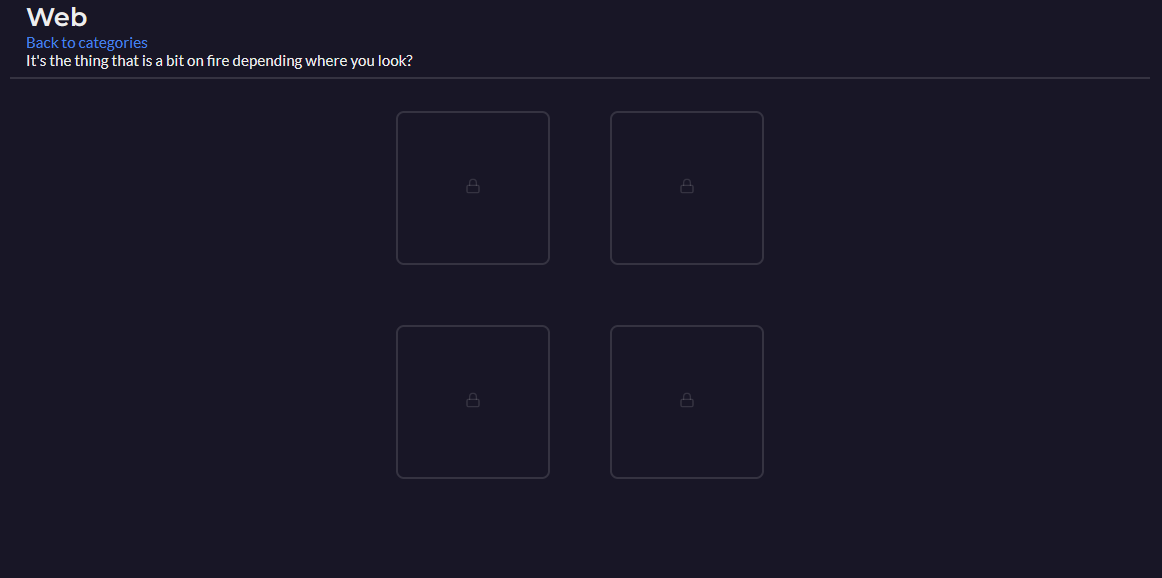
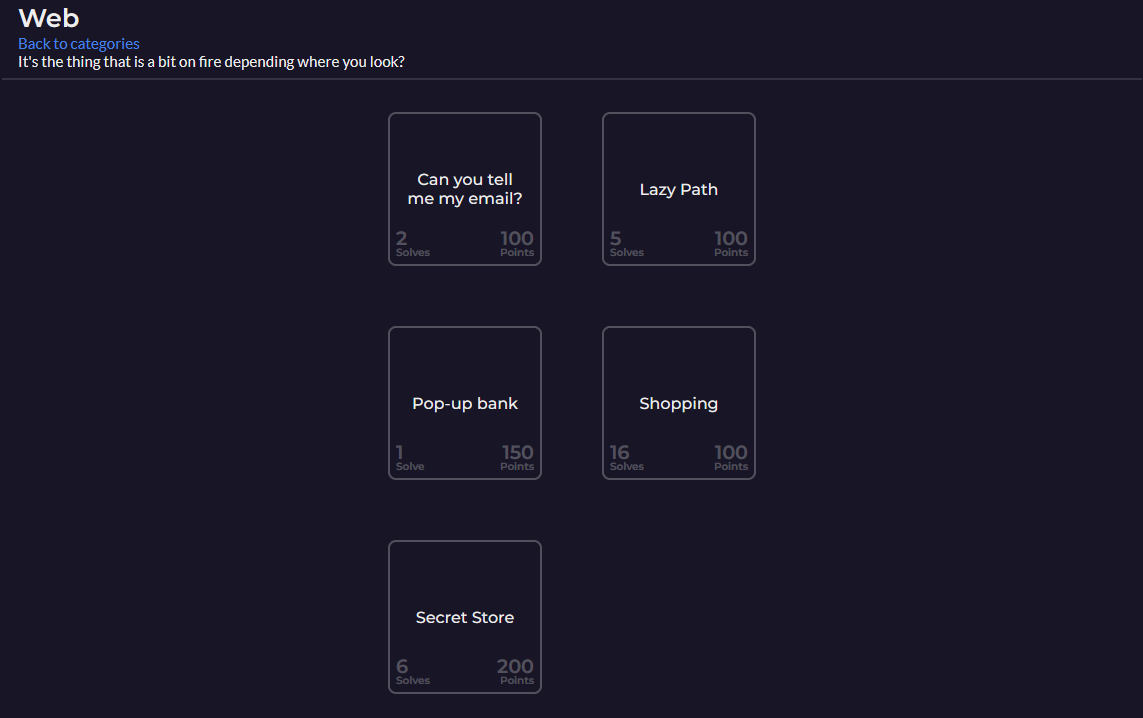
.

diff --git a/Web/README.md b/Web/README.md
@@ -1,3 +1,52 @@
 # Web
 
+- [Web](#web)
+  - [Can you tell me my email?](#can-you-tell-me-my-email)
+  - [Lazy Path](#lazy-path)
+  - [Pop-up bank](#pop-up-bank)
+  - [Shopping](#shopping)
+  - [Secret Store](#secret-store)
+
 ![Alt text](images/image_001.png)
+
+---
+
+## Can you tell me my email?
+
+![Challenge](images/image_002.png)
+
+[Can you tell me my email? Resolution](Email/README.md)
+
+---
+
+## Lazy Path
+
+![Challenge](images/image_003.png)
+
+[Lazy Path Resolution](Path/README.md)
+
+---
+
+## Pop-up bank
+
+![Challenge](images/image_004.png)
+
+[Pop-up bank Resolution](Pop_up/README.md)
+
+---
+
+## Shopping
+
+![Challenge](images/image_005.png)
+
+[Shopping Resolution](Shopping/README.md)
+
+---
+
+## Secret Store
+
+![Challenge](images/image_006.png)
+
+[Secret Store Resolution](Secret_Store/README.md)
+
+---

diff --git a/Web/Path/README.md b/Web/Path/README.md
@@ -1,0 +1,3 @@
+# Email
+
+Path traversal ?

diff --git a/Web/Pop_up/README.md b/Web/Pop_up/README.md
@@ -1,0 +1,3 @@
+# Pop up bank
+
+xss

diff --git a/Web/Secret_Store/README.md b/Web/Secret_Store/README.md
@@ -1,0 +1,1 @@
+# Secret Store

diff --git a/Web/Shopping/README.md b/Web/Shopping/README.md
@@ -1,0 +1,1 @@
+# Shopping

diff --git a/Web/Email/README.md b/Web/Email/README.md
@@ -1,0 +1,1 @@
+# Email
